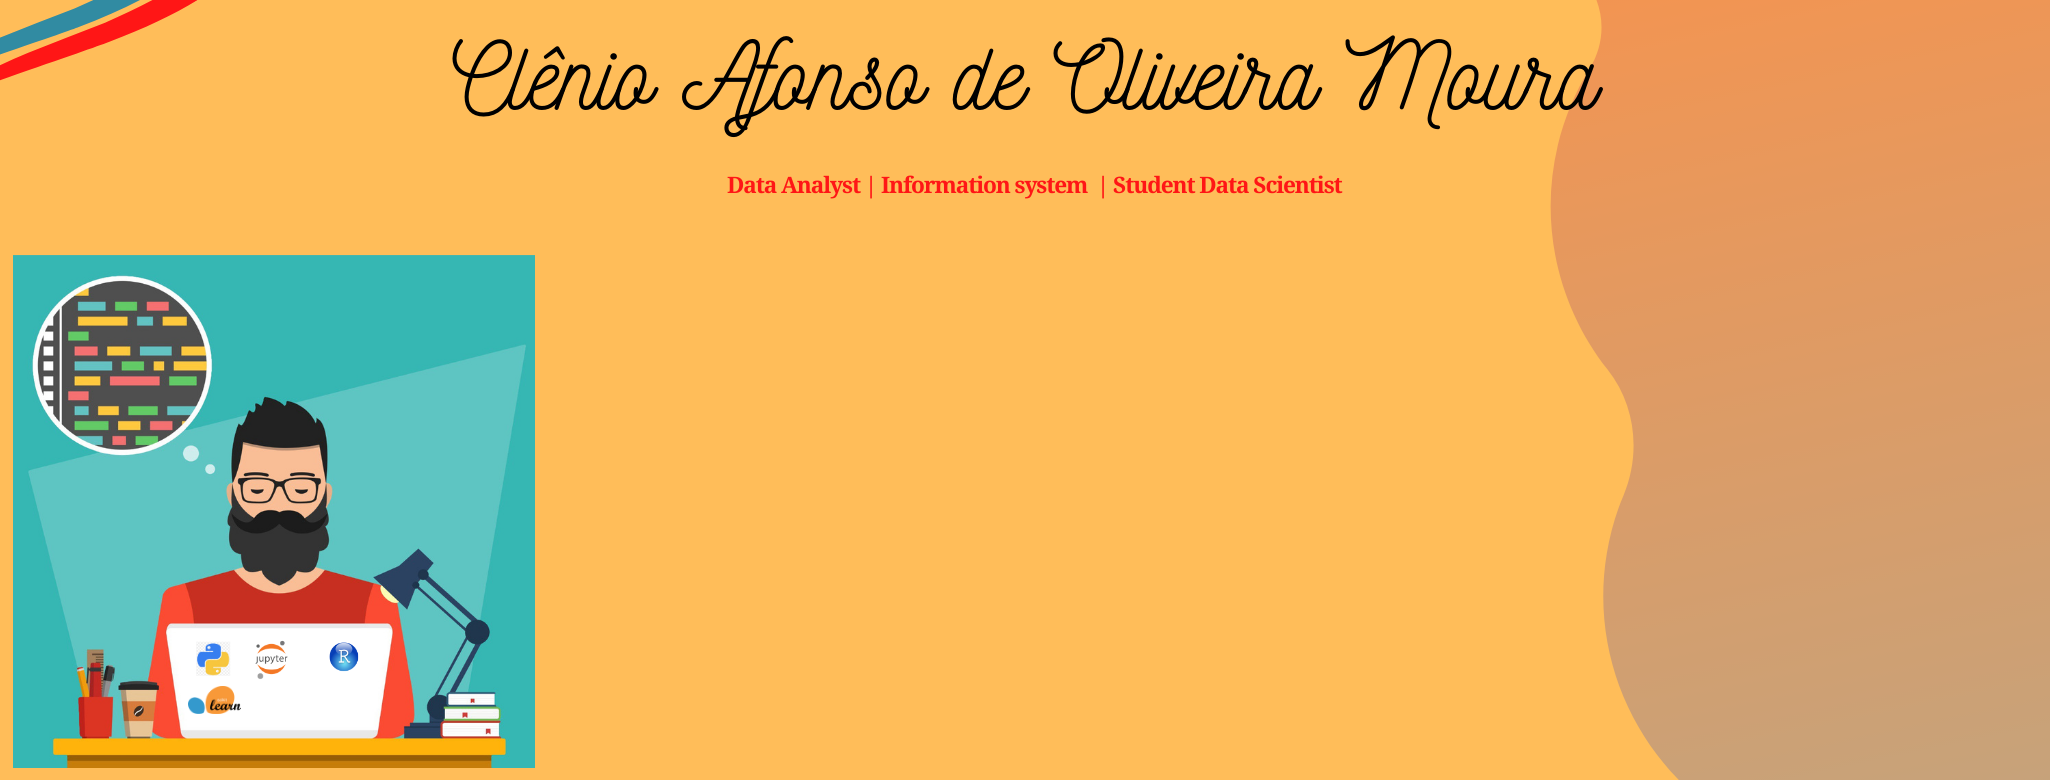
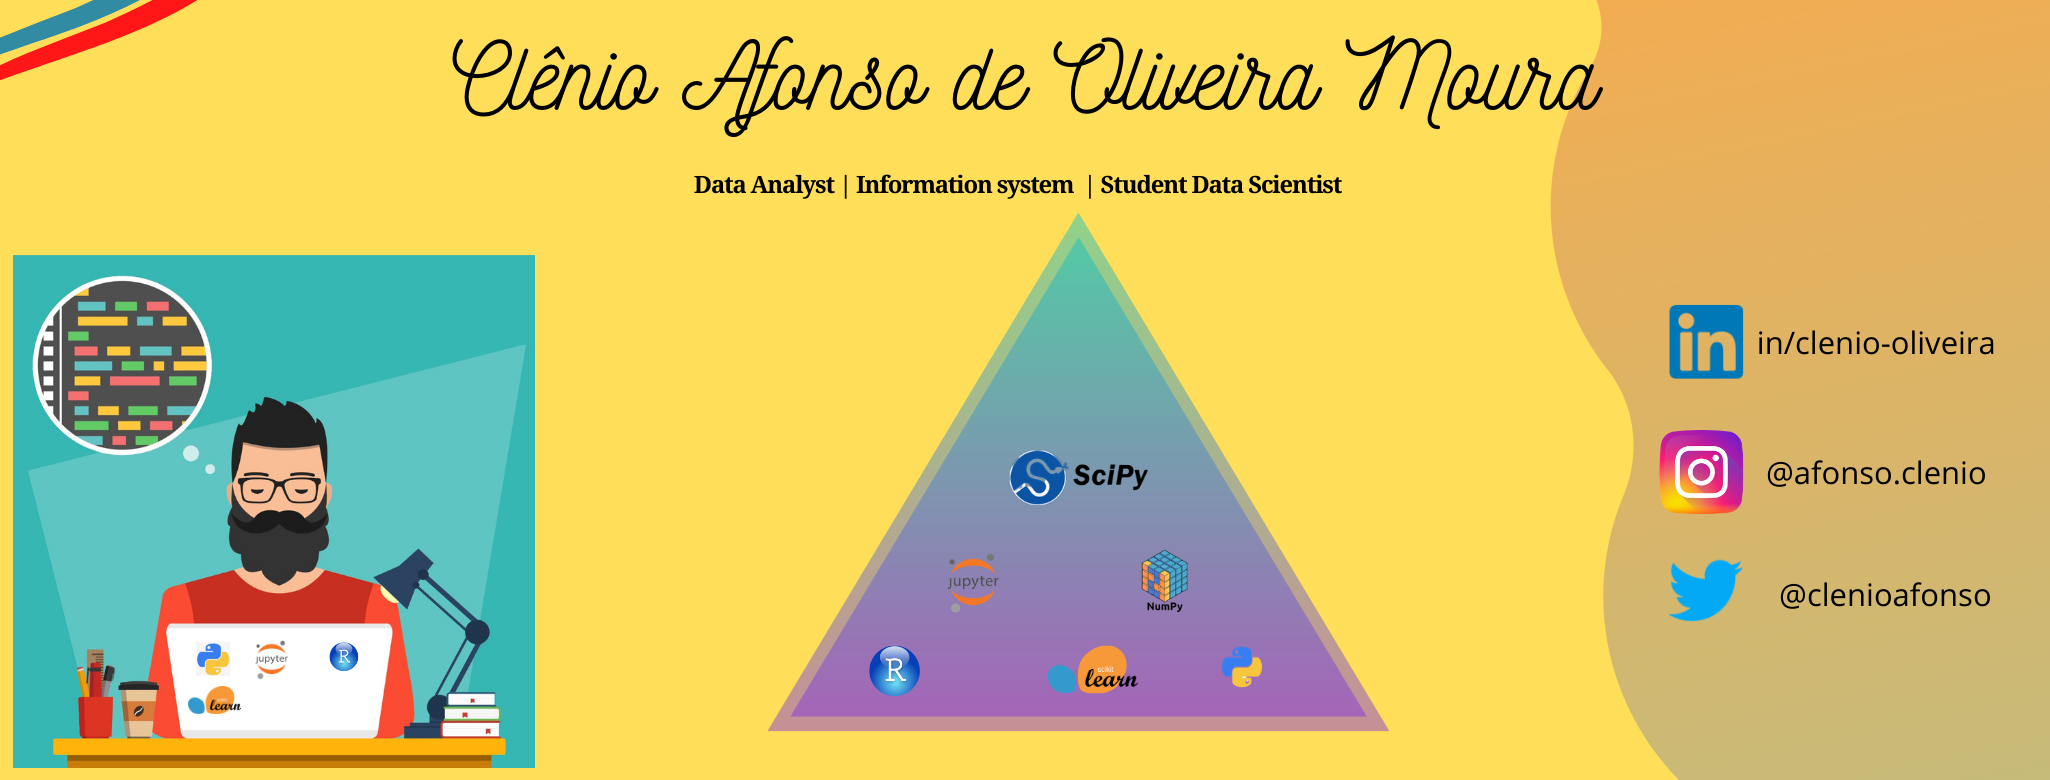
editando capa e descrição

diff --git a/README.MD b/README.MD
@@ -1,9 +1,6 @@
 
 ![Markdown](imagens/Capa_github.png)
 
-
-![](https://komarev.com/ghpvc/?username=clenio77&color=blue&style=flat
-
 <center>
 <table>
     <tr>
@@ -12,6 +9,12 @@
     </tr>   
 </table>
 </center>  
+
+# Olá Seja bem vindo ao meu Github!
+
+Sou graduado em Sistemas de Informação desde 2018, atualmente faço a FCD - Formação Cientista de Dados pela [Data Science Academy](https://www.datascienceacademy.com.br/pages/home), sou apaixonado por informática, sou adepto do open source, amo trabalhar com dados, principalmente usando python, R e estou extasiado pelo poder de Machine Learning.
+
+Adoro ler, principalmente assuntos ligados a ciência, informática. Se precisar entrar em contato comigo, deixo abaixo todas as minhas redes socias, fique a vontade.
 
 ### Onde me achar:
 
